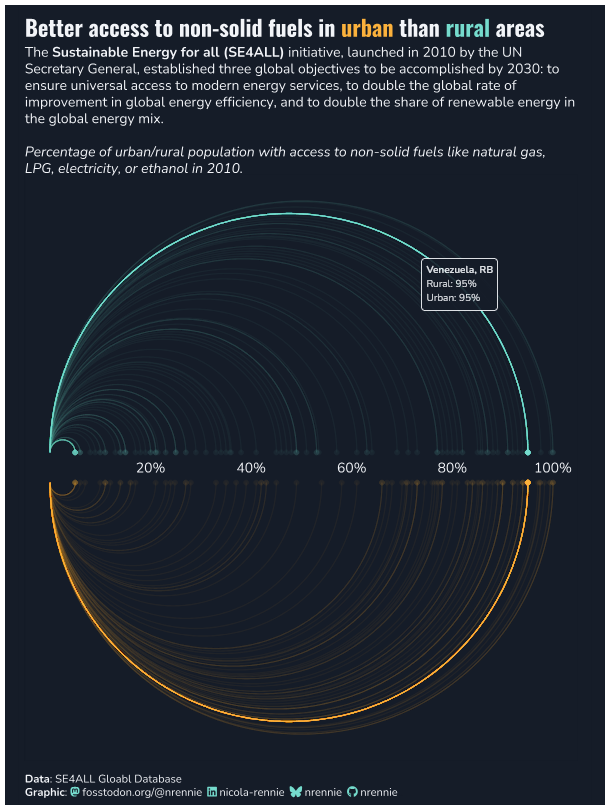
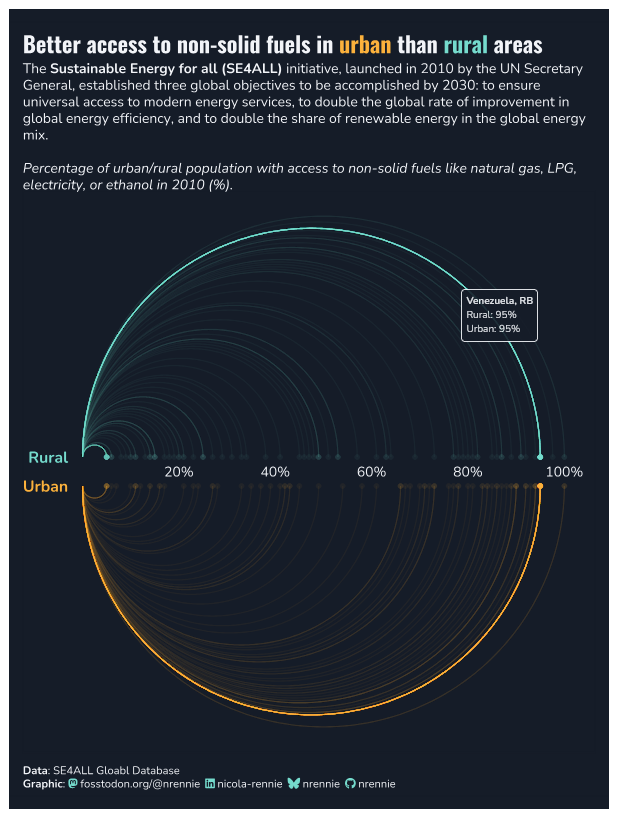
Little fixes to sustainable energy chart

diff --git a/2026/2026-05-26/README.md b/2026/2026-05-26/README.md
@@ -3,3 +3,7 @@
 <p align="center">
   <img src="/2026/2026-05-26/20260526.png" width="60%">
 </p>
+
+<p align="center">
+  <img src="/2026/2026-05-26/20260526_interactive.png" width="60%">
+</p>